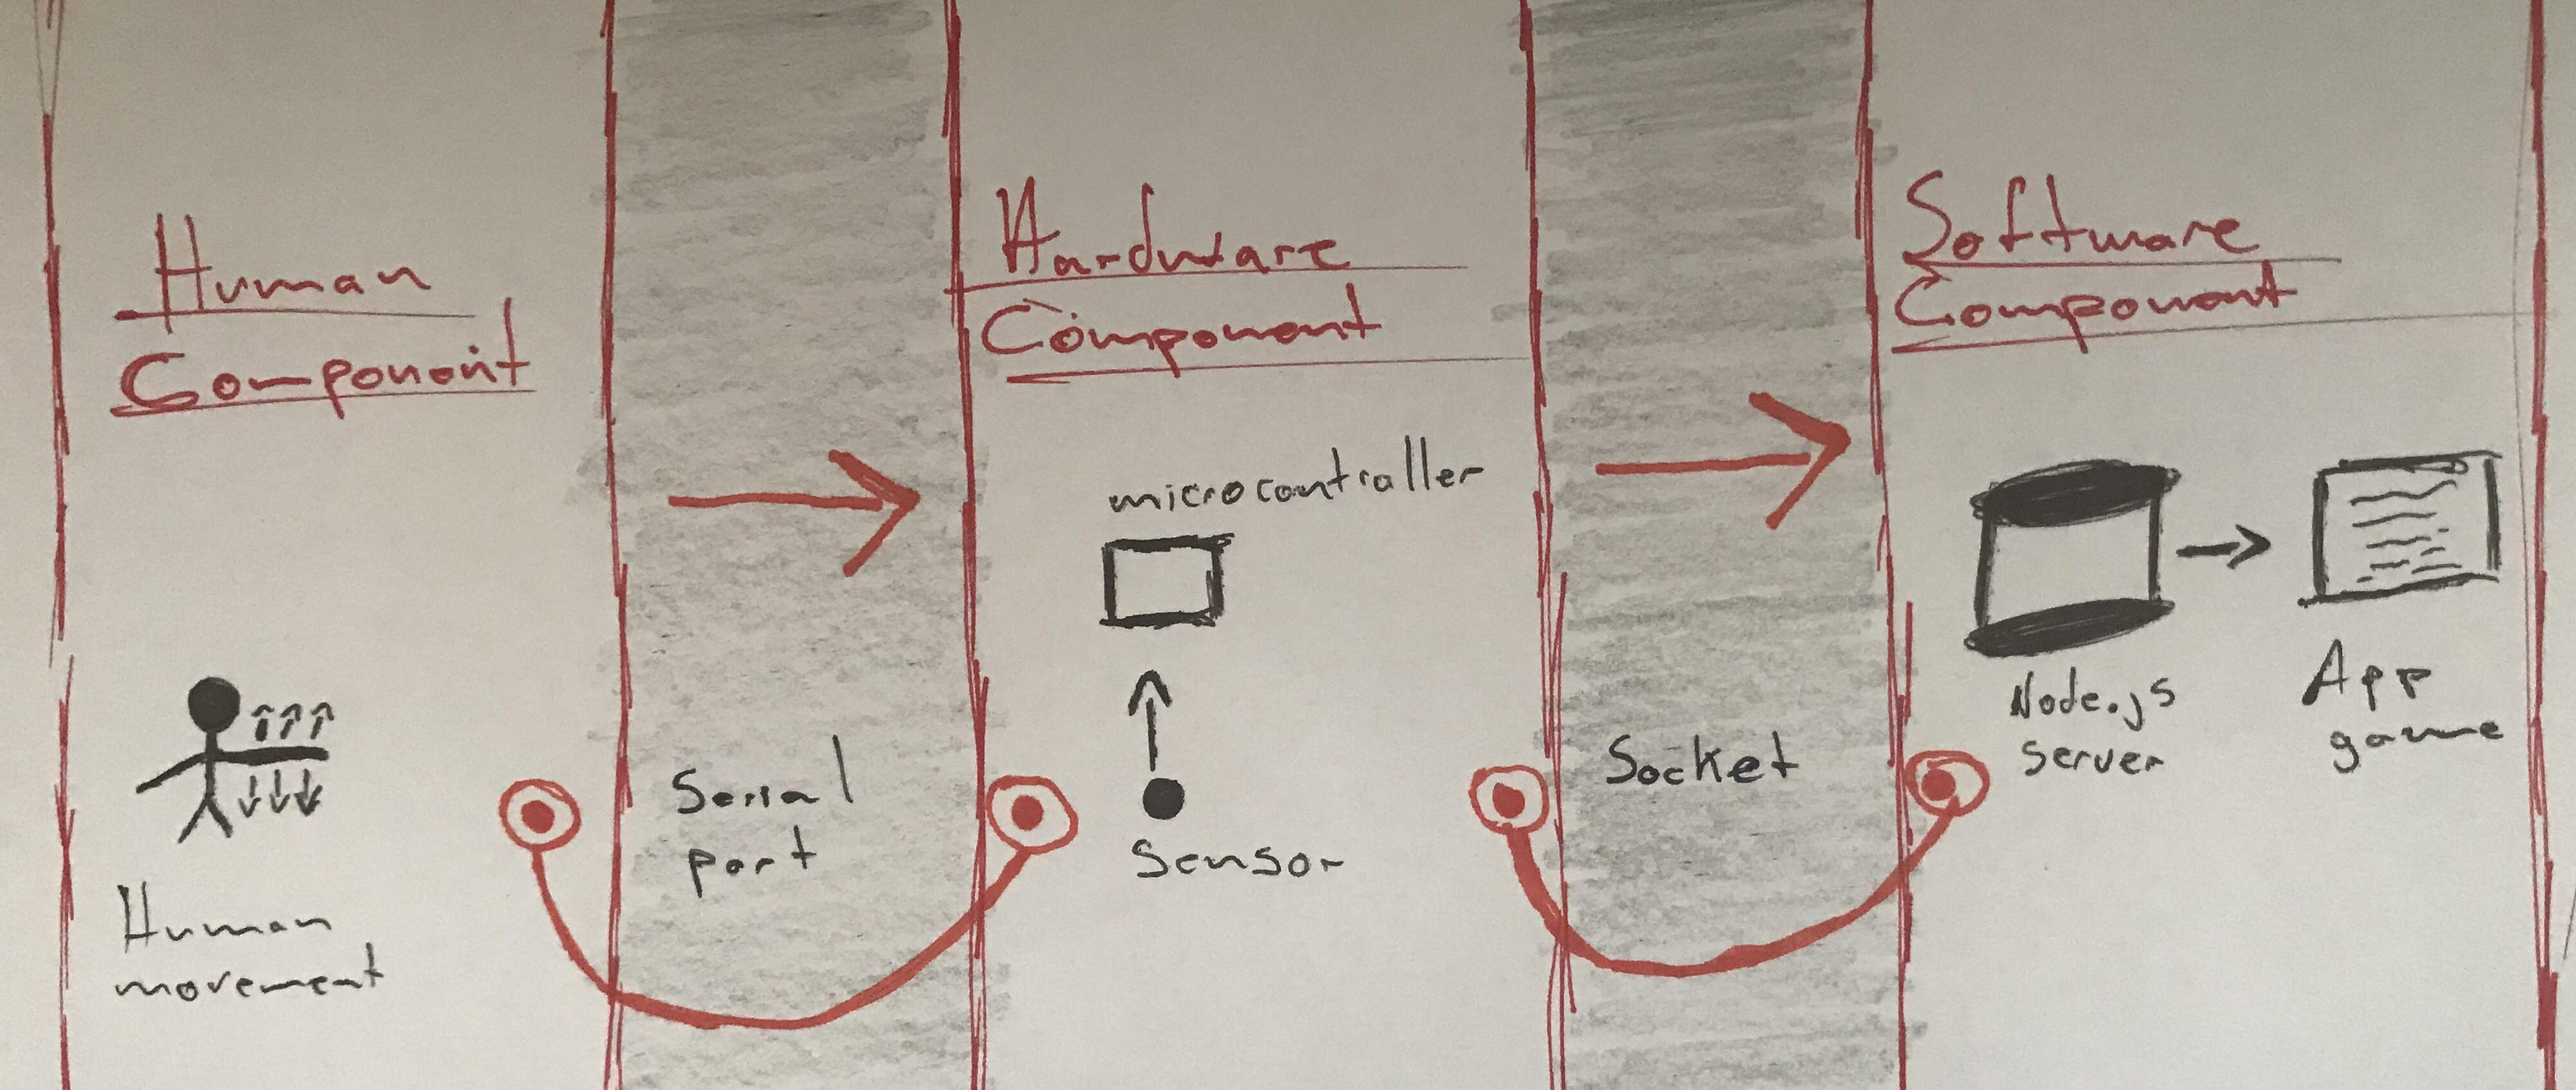
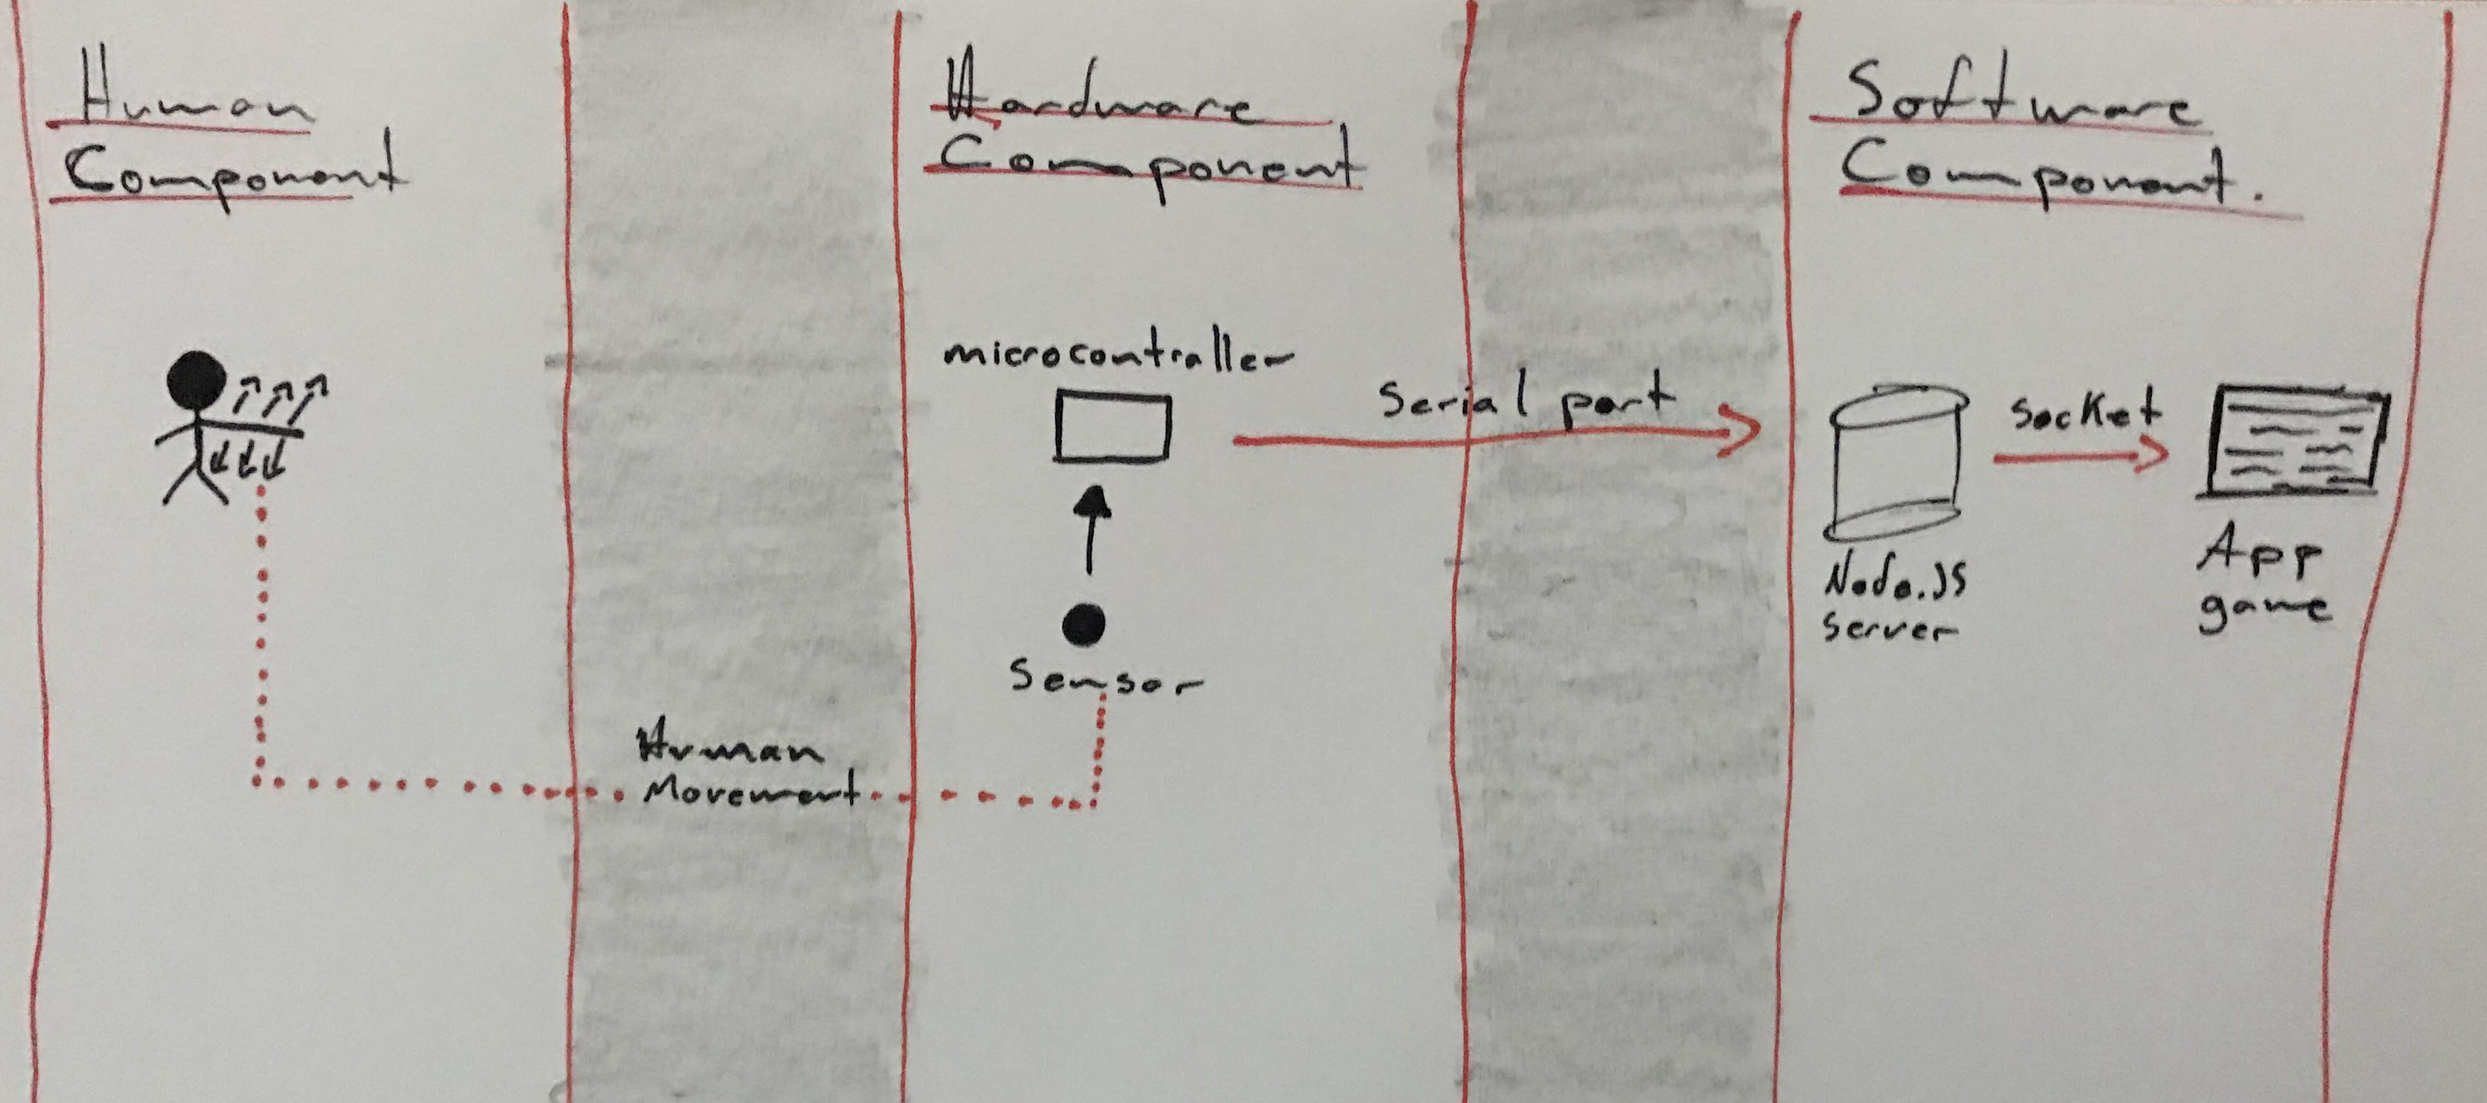
add new diagram of the architecture of the solution

diff --git a/readme.md b/readme.md
@@ -54,6 +54,6 @@ All of that allow the project to move to create an open community for give more 
 
 If you are thinking in contribute in the open source community or you want to know more about the project, you can write me a message to the following email: lopezjimenezmauro05@gmail.com
 
-## -- project still under development --
 
+### First Prototype
 <img src="./img/3nafvm.gif" width="250" height="250">
